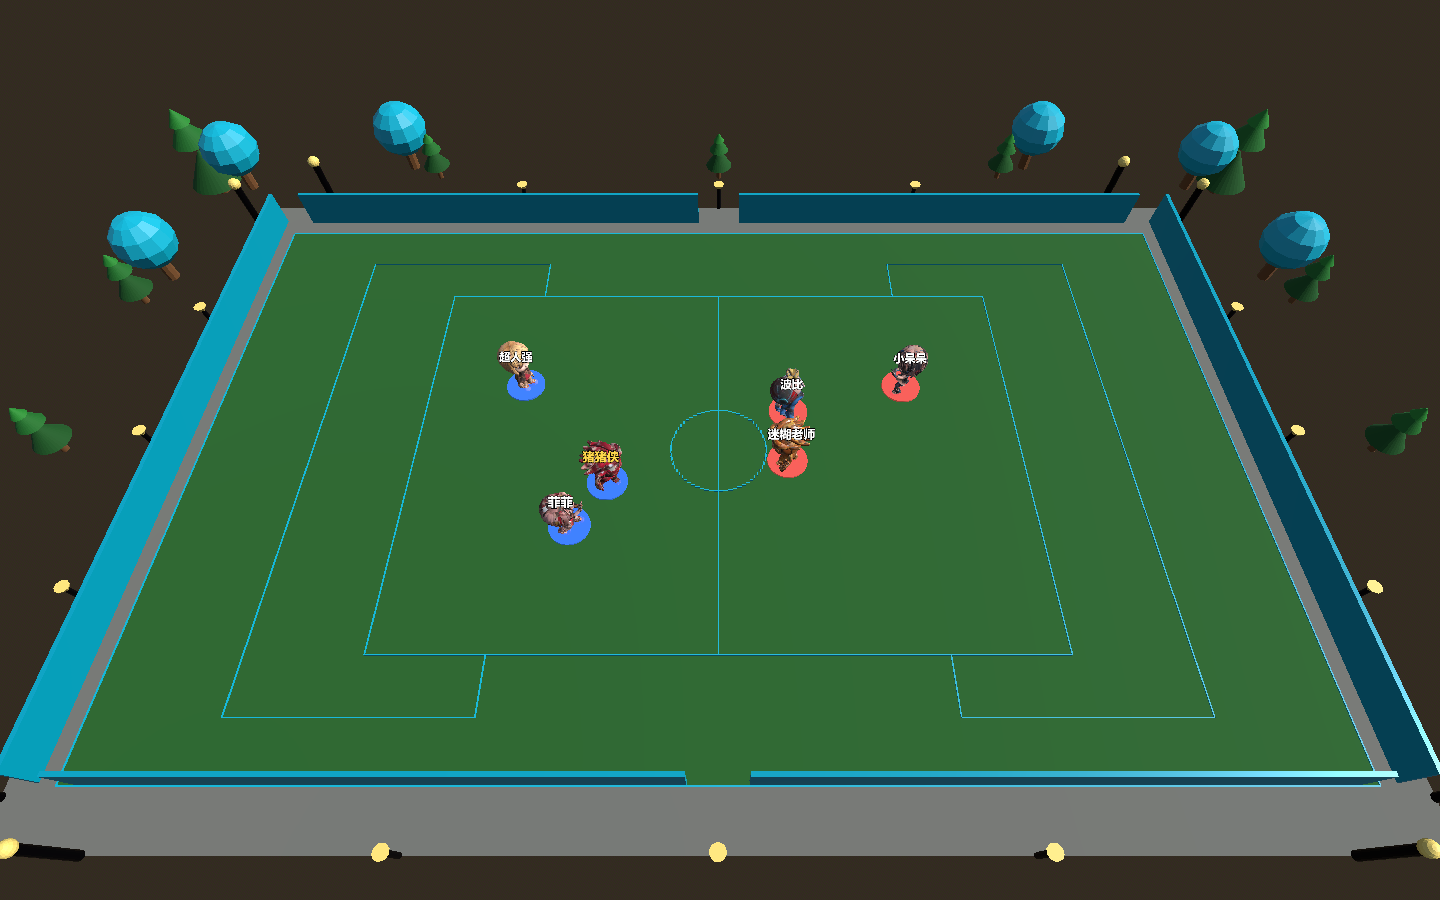
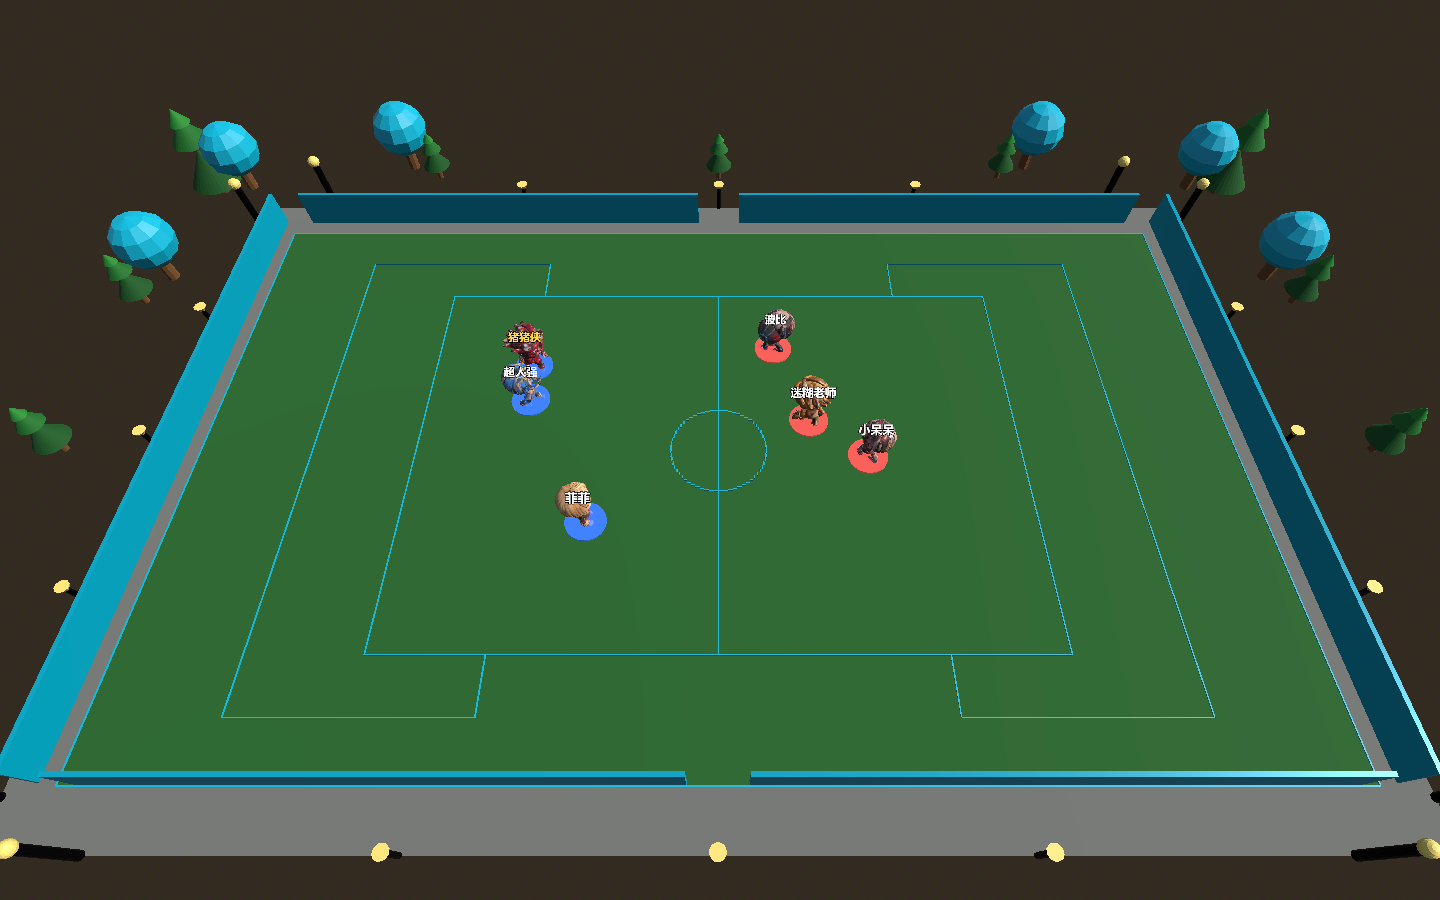
feat: E10b 无建模角色 GLB 外观降级——player6/7/8 用专属 base.glb 替代错乱共享人形
- 资产审计：player6/7/8 零专属动作 FBX（主人判断证实）
- MODEL_MAP 改 model_glb 字段；PlayerProxy3D 加 GLB 外观分支（材质修正/自带动画/静止兜底）
- 待补资产后无缝升级 FBX 动画模式

Changed region(s): [[0.5, 0.3422, 0.6562, 0.5289], [0.375, 0.4667, 0.4375, 0.6222], [0.3438, 0.3422, 0.4062, 0.4667]]

diff --git a/工作日志/2026-09-12.md b/工作日志/2026-09-12.md
@@ -93,3 +93,18 @@ battle3d_const.gd：
 - 换人链路探针 12 项 PASS（全部代理构建成功，PBR/动画正常）
 - sim 零错误（sim 强制纯 2D 无 3D 层=正常设计）
 - 待主人手测：超人强应显示建模 player5 的外观，菲菲显示 player2 外观
+
+---
+
+## E10b 无建模角色 GLB 外观降级（主人判断证实：资源缺失）✅
+
+### 资产审计（实测）
+player1=8动作FBX / player2=5 / player3=3 / player4=3 / player5=2 / **player6=0 / player7=0 / player8=0**
+player6/7/8 连 idle 都没有——主人判断正确，无建模角色被迫套共享 Mixamo 人形（UV 不匹配=渲染丢失/外观雷同菲菲系）
+
+### 修复：GLB 外观模式
+player6/7/8 的 base.glb（网格/UV/材质完整）做外观，混元材质修正，GLB 自带动画则播放否则静止
+MODEL_MAP 条目 model_glb 字段；PlayerProxy3D 加 GLB 分支（环/手挂点/选中标签全保留）
+
+### 验证
+12 项交互 PASS（中键平移上轮 FAIL 为并发窗口抢焦点环境噪音，重跑过）
